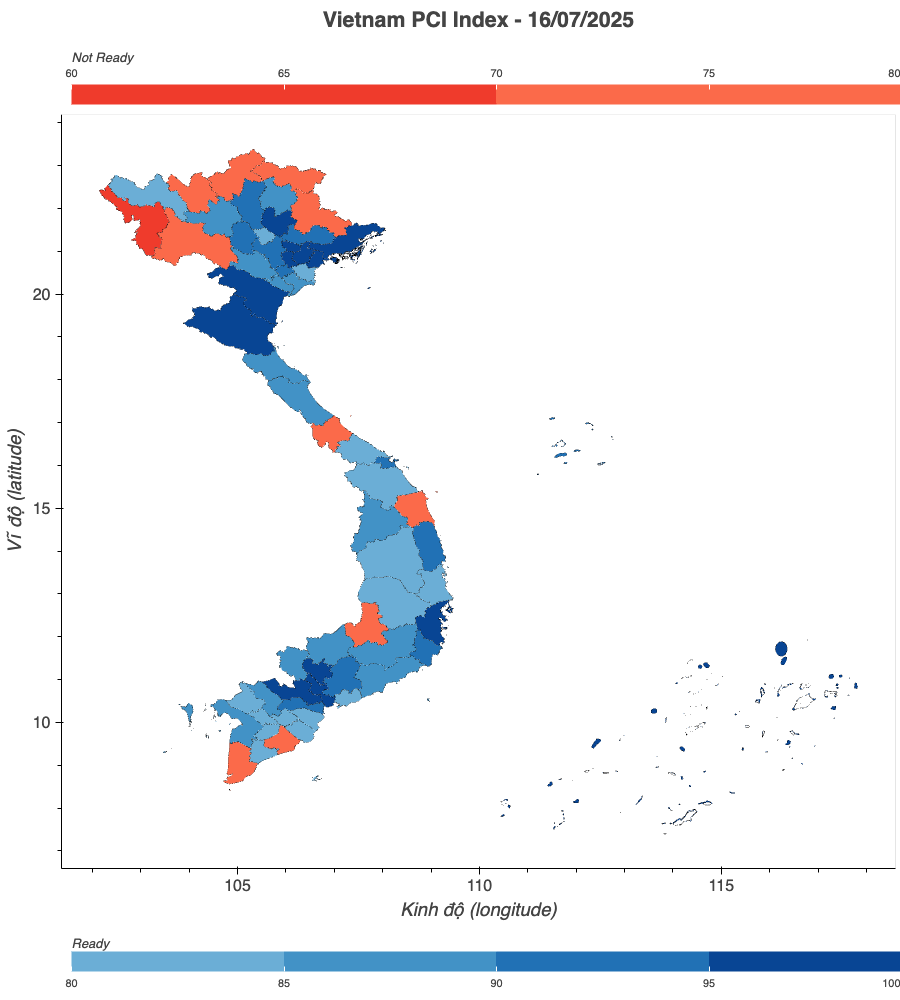
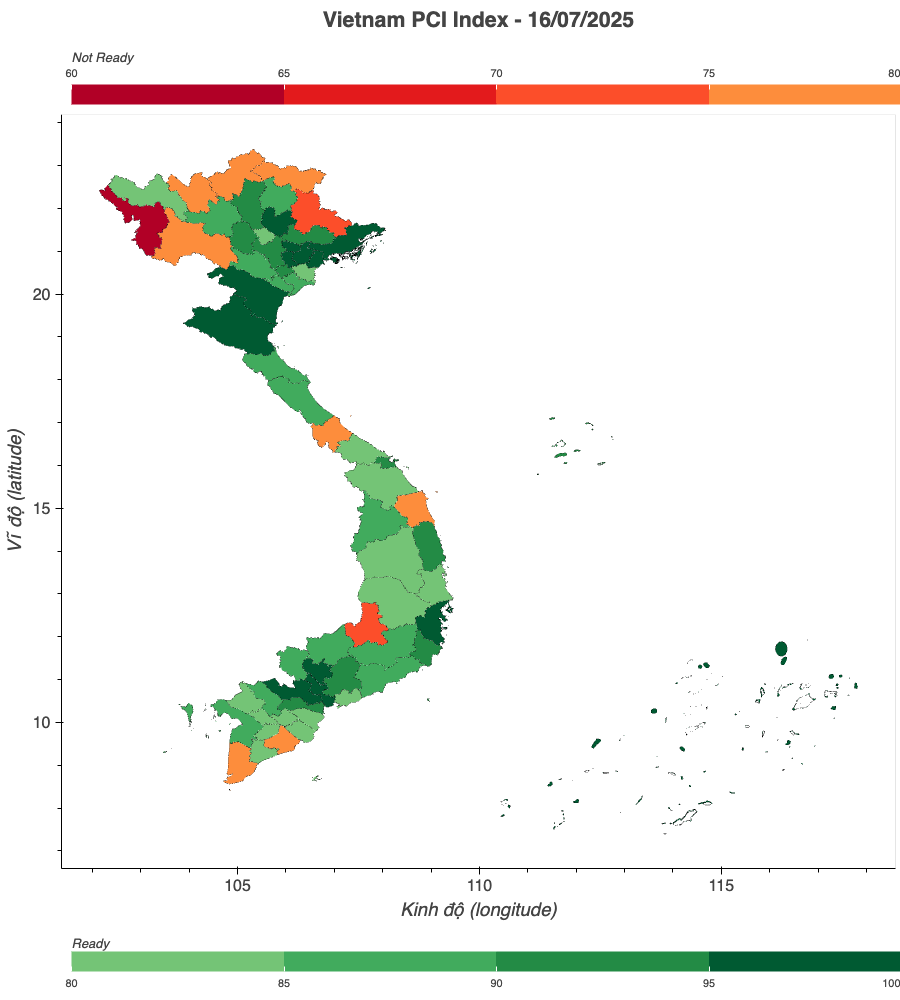
update figure

Changed region(s): [[0.0933, 0.155, 0.4978, 0.806], [0.0622, 0.93, 1.0, 0.992], [0.0622, 0.062, 1.0, 0.124]]

diff --git a/vietnam-plot/plot.py b/vietnam-plot/plot.py
@@ -31,29 +31,29 @@ not_ready_gdf = vn_data[vn_data['Ready'] == False]
 ready_source = GeoJSONDataSource(geojson=ready_gdf.to_json())
 not_ready_source = GeoJSONDataSource(geojson=not_ready_gdf.to_json())
 
-# --- Blue Color Mapper for 'Ready' Provinces ---
+# --- Green Color Mapper for 'Ready' Provinces ---
 # We slice and reverse the palette to ensure higher values get darker colors.
-palette_blue = brewer['Blues'][7][:4][::-1]
-blue_color_mapper = LinearColorMapper(palette=palette_blue, low=80, high=100)
+palette_green = brewer['Greens'][7][:4][::-1]
+green_color_mapper = LinearColorMapper(palette=palette_green, low=80, high=100)
 
-ticks_blue = list(range(80, 101, 4))
-tick_labels_blue = {str(tick): str(tick) for tick in ticks_blue}
+ticks_green = list(range(80, 101, 4))
+tick_labels_green = {str(tick): str(tick) for tick in ticks_green}
 
-blue_color_bar = ColorBar(
-    color_mapper=blue_color_mapper,
+green_color_bar = ColorBar(
+    color_mapper=green_color_mapper,
     label_standoff=8,
     width=850, 
     height=20,
     border_line_color=None, 
     location=(0,0), 
     orientation='horizontal', 
-    major_label_overrides=tick_labels_blue,
+    major_label_overrides=tick_labels_green,
     title="Ready"
 )
 
 # --- Red Color Mapper for 'Not Ready' Provinces ---
-# Slicing and reversing the palette for consistency with the blue scale.
-palette_red = brewer['Reds'][7][:4][2:]
+# Slicing and reversing the palette for consistency with the green scale.
+palette_red = brewer['YlOrRd'][7][:4]
 red_color_mapper = LinearColorMapper(palette=palette_red, low=60, high=80)
 
 ticks_red = list(range(60, 81, 4))
@@ -107,18 +107,18 @@ p.patches(
     fill_alpha=1
 )
 
-# Plot 'ready' provinces in blue with intensity
+# Plot 'ready' provinces in green with intensity
 p.patches(
     xs='xs',
     ys='ys', 
     source=ready_source,
-    fill_color={'field' :'plot_data', 'transform' : blue_color_mapper},
+    fill_color={'field' :'plot_data', 'transform' : green_color_mapper},
     line_color='black', 
     line_width=0.25, 
     fill_alpha=1
 )
 
-p.add_layout(blue_color_bar, 'below')
+p.add_layout(green_color_bar, 'below')
 p.add_layout(red_color_bar, 'above')
 
 from bokeh.io import export_png

diff --git a/vietnam-plot/plot_province.py b/vietnam-plot/plot_province.py
@@ -10,10 +10,10 @@ from bokeh.models.annotations import Title
 
 # --- Configuration ---
 # Change these variables to plot a different province
-PROVINCE_NAME = 'Điện Biên'
+PROVINCE_NAME = 'Thái Nguyên'
 # To plot Thai Nguyen, change the following line to:
 # CSV_PATH = 'results/dci_results_thai_nguyen_target_based.csv'
-CSV_PATH = 'results/dci_results_dien_bien_target_based.csv'
+CSV_PATH = 'results/dci_results_thai_nguyen_target_based.csv'
 
 # --- Load Data ---
 data = pd.read_csv(CSV_PATH)
@@ -56,7 +56,7 @@ not_ready_source = GeoJSONDataSource(geojson=not_ready_gdf.to_json())
 # --- Blue Color Mapper for 'Ready' Districts ---
 # We slice the palette to remove the lightest colors, so the scale starts from a more visible blue.
 # We also reverse it to ensure higher values get darker colors.
-palette_blue = brewer['Blues'][7][:5][::-1]
+palette_blue = brewer['Greens'][7][:4][::-1]
 blue_color_mapper = LinearColorMapper(palette=palette_blue, low=75, high=100)
 
 ticks_blue = list(range(75, 101, 5))
@@ -71,7 +71,7 @@ blue_color_bar = ColorBar(
 
 # --- Red Color Mapper for 'Not Ready' Districts ---
 # Slicing and reversing the palette for consistency with the blue scale.
-palette_red = brewer['Reds'][9][:5]
+palette_red = brewer['YlOrRd'][7][:4]
 red_color_mapper = LinearColorMapper(palette=palette_red, low=50, high=75)
 
 ticks_red = list(range(50, 76, 5))
